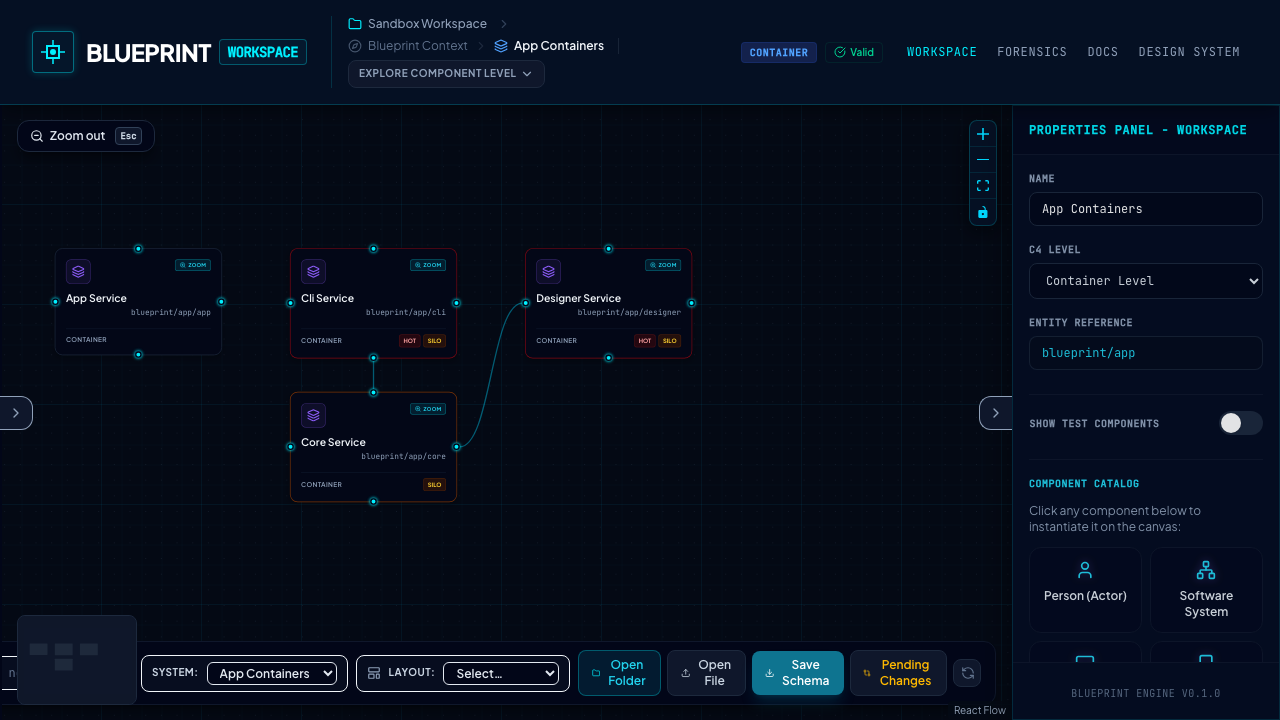
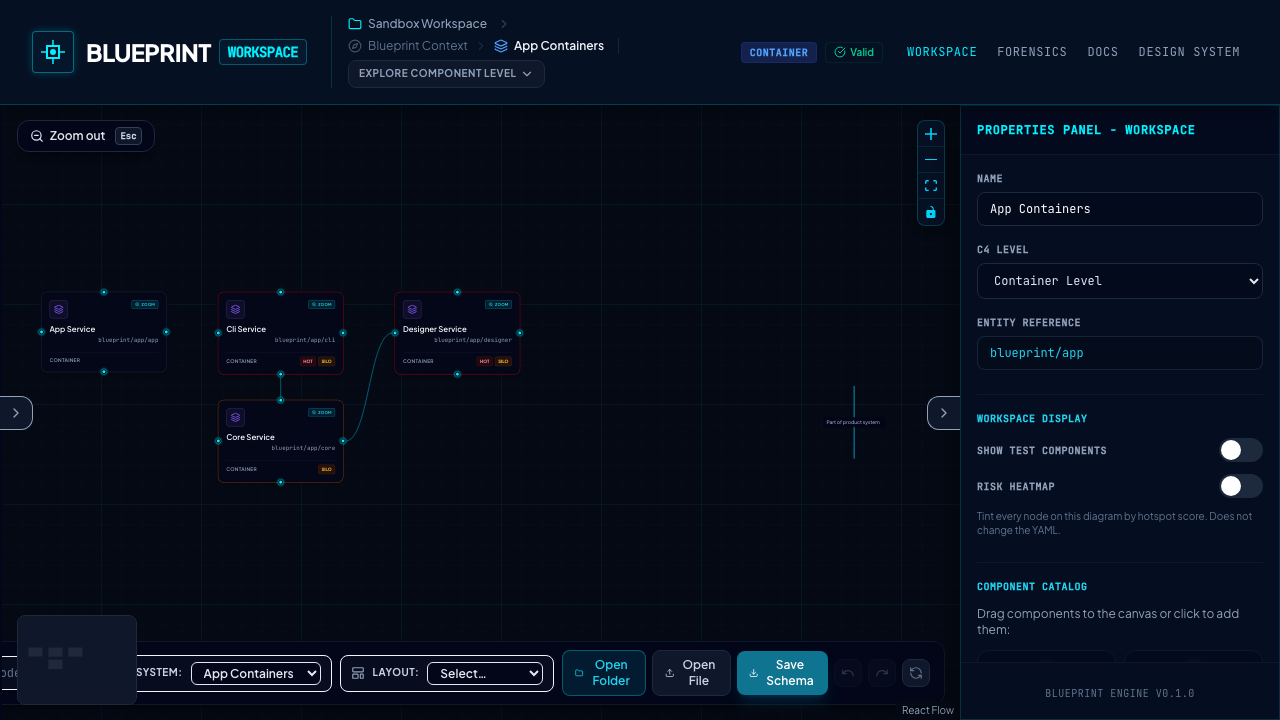
fix: correct e2e panel toggle assertions and update corresponding documentation screenshots

diff --git a/app/packages/designer/tests/e2e.spec.ts b/app/packages/designer/tests/e2e.spec.ts
@@ -20,13 +20,13 @@ test.describe('Blueprint E2E Journeys', () => {
     const rightPanel = page.getByTestId('right-panel');
 
     await expect(leftPanel).toHaveClass(/w-0/);
-    await expect(rightPanel).toHaveClass(/w-0/);
+    await expect(rightPanel).not.toHaveClass(/w-0/);
 
     await leftPanelButton.click();
     await expect(leftPanel).not.toHaveClass(/w-0/);
 
     await rightPanelButton.click();
-    await expect(rightPanel).not.toHaveClass(/w-0/);
+    await expect(rightPanel).toHaveClass(/w-0/);
 
     await page.screenshot({ path: '../../../docs/screenshots/1-panels-expanded.png' });
 
@@ -34,7 +34,7 @@ test.describe('Blueprint E2E Journeys', () => {
     await expect(leftPanel).toHaveClass(/w-0/);
 
     await rightPanelButton.click();
-    await expect(rightPanel).toHaveClass(/w-0/);
+    await expect(rightPanel).not.toHaveClass(/w-0/);
 
     await page.screenshot({ path: '../../../docs/screenshots/2-panels-collapsed.png' });
   });
